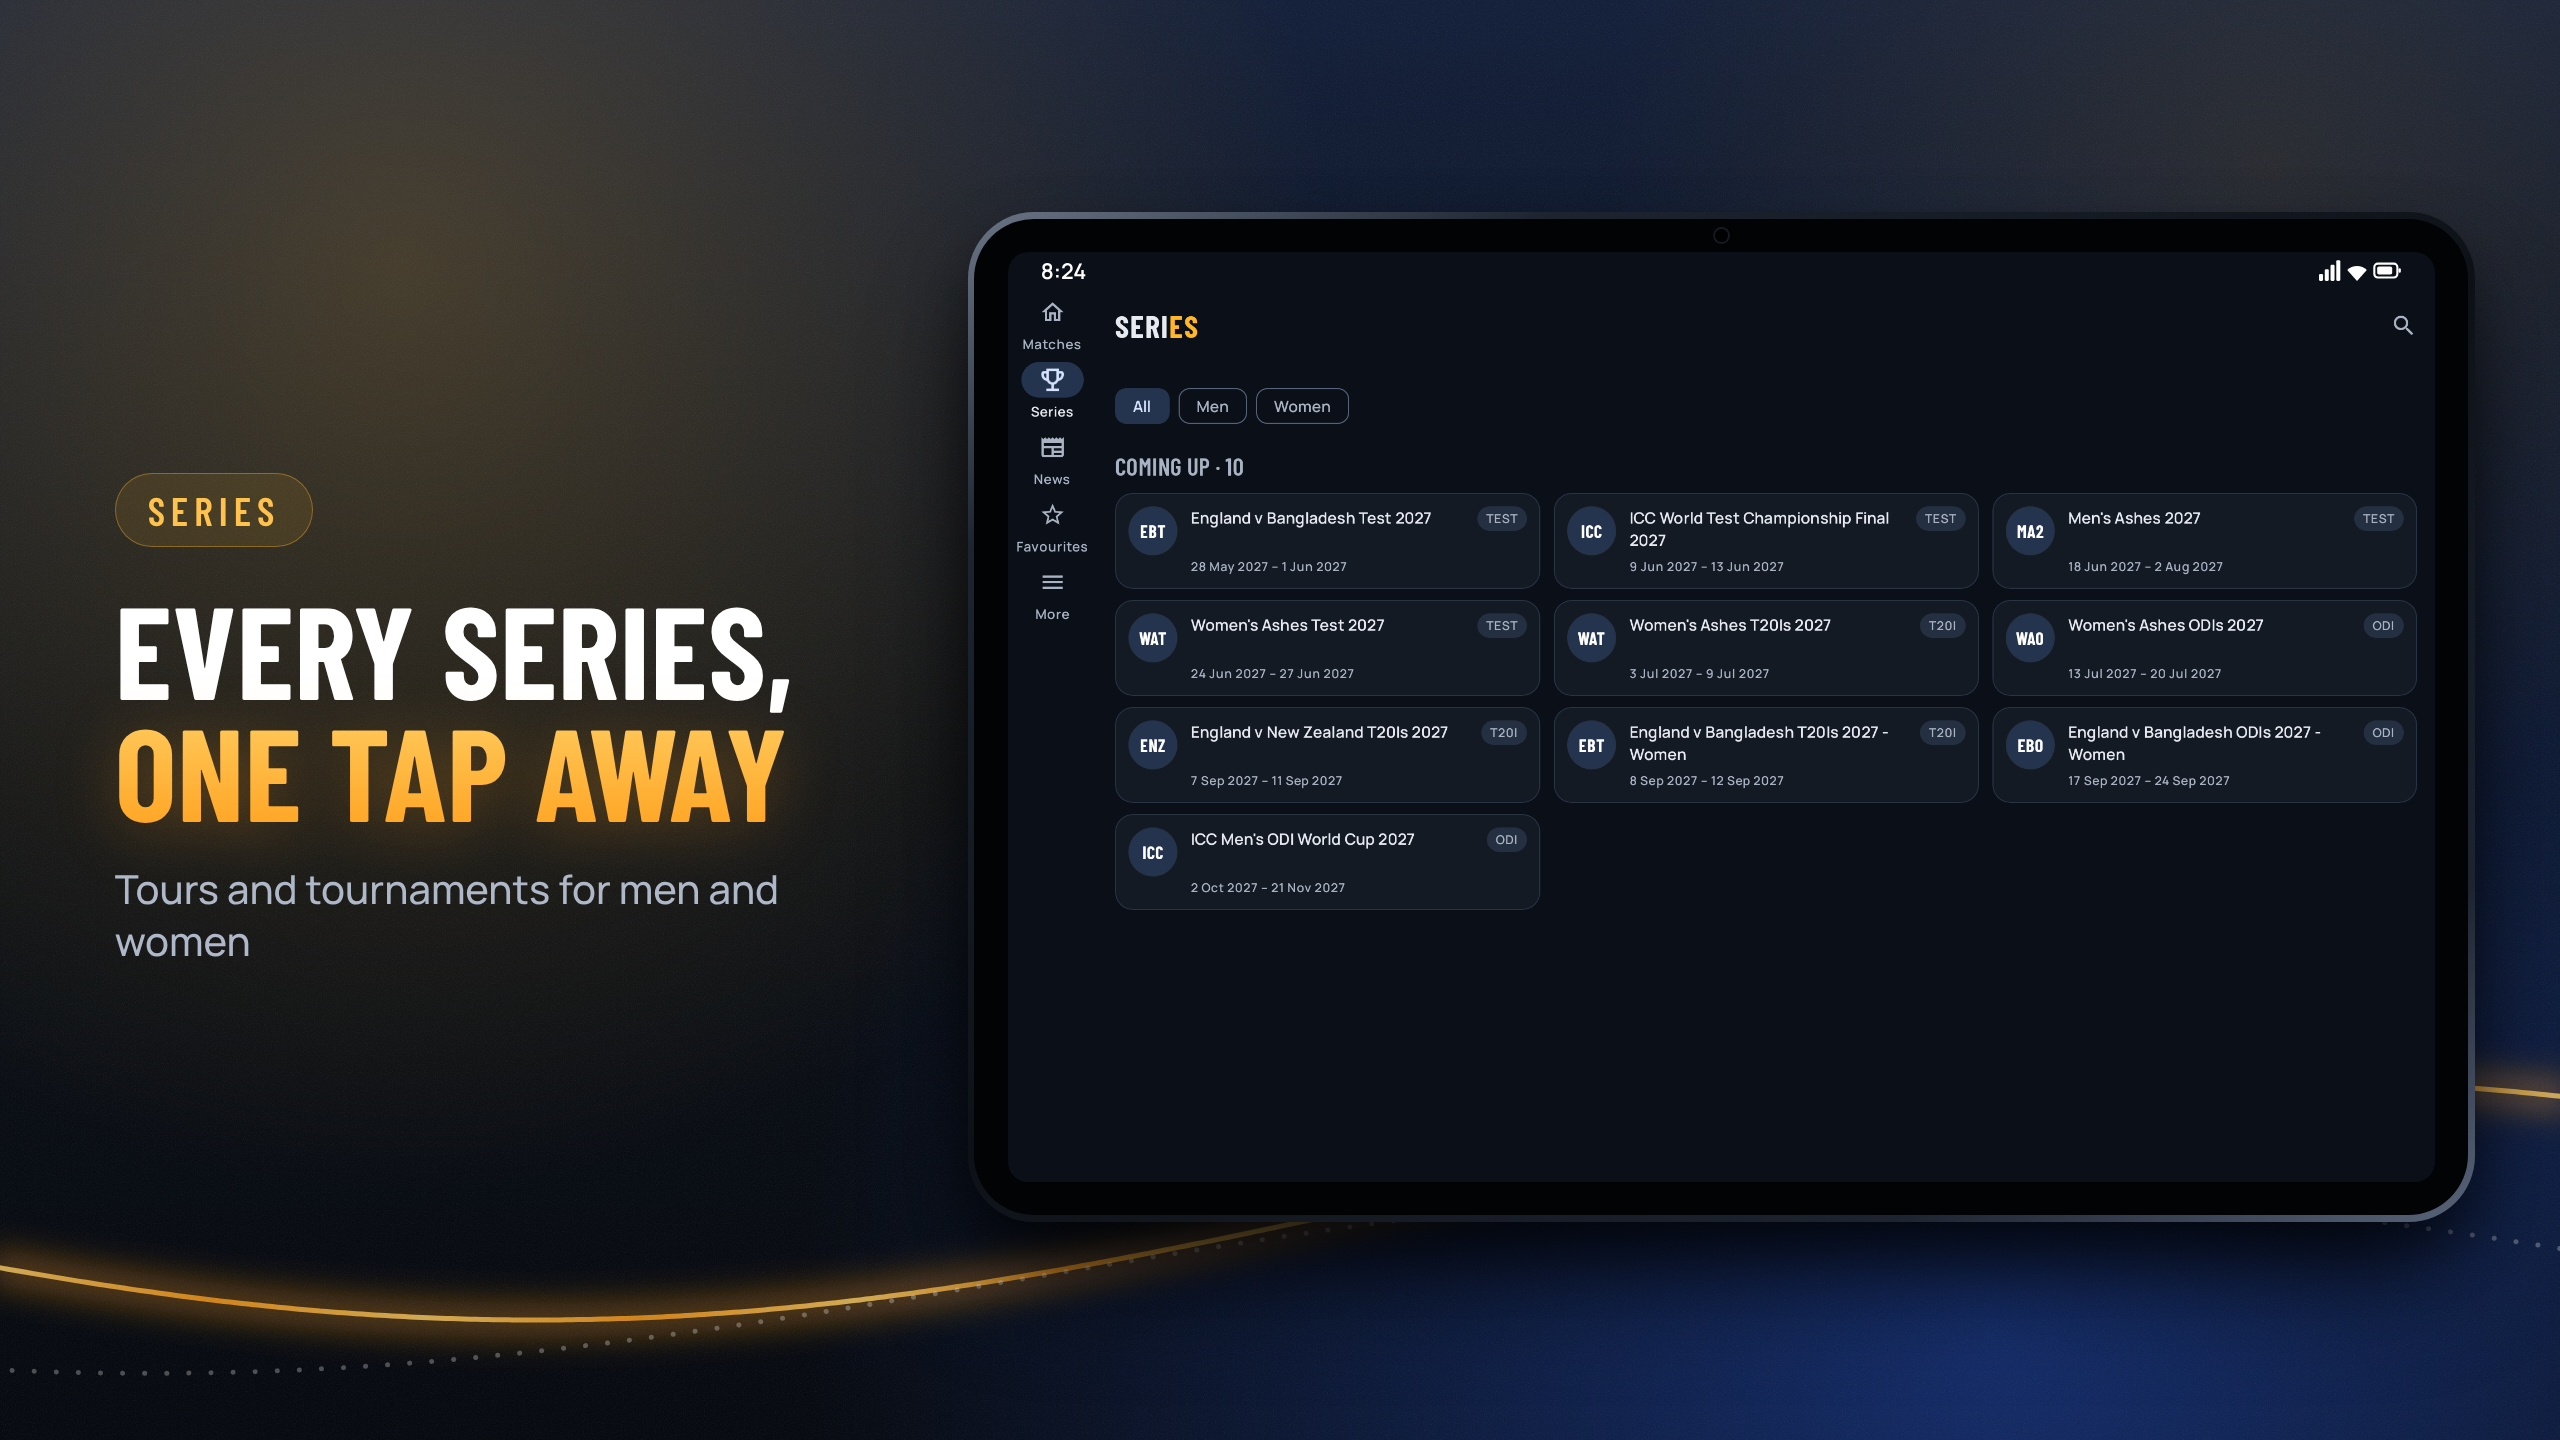
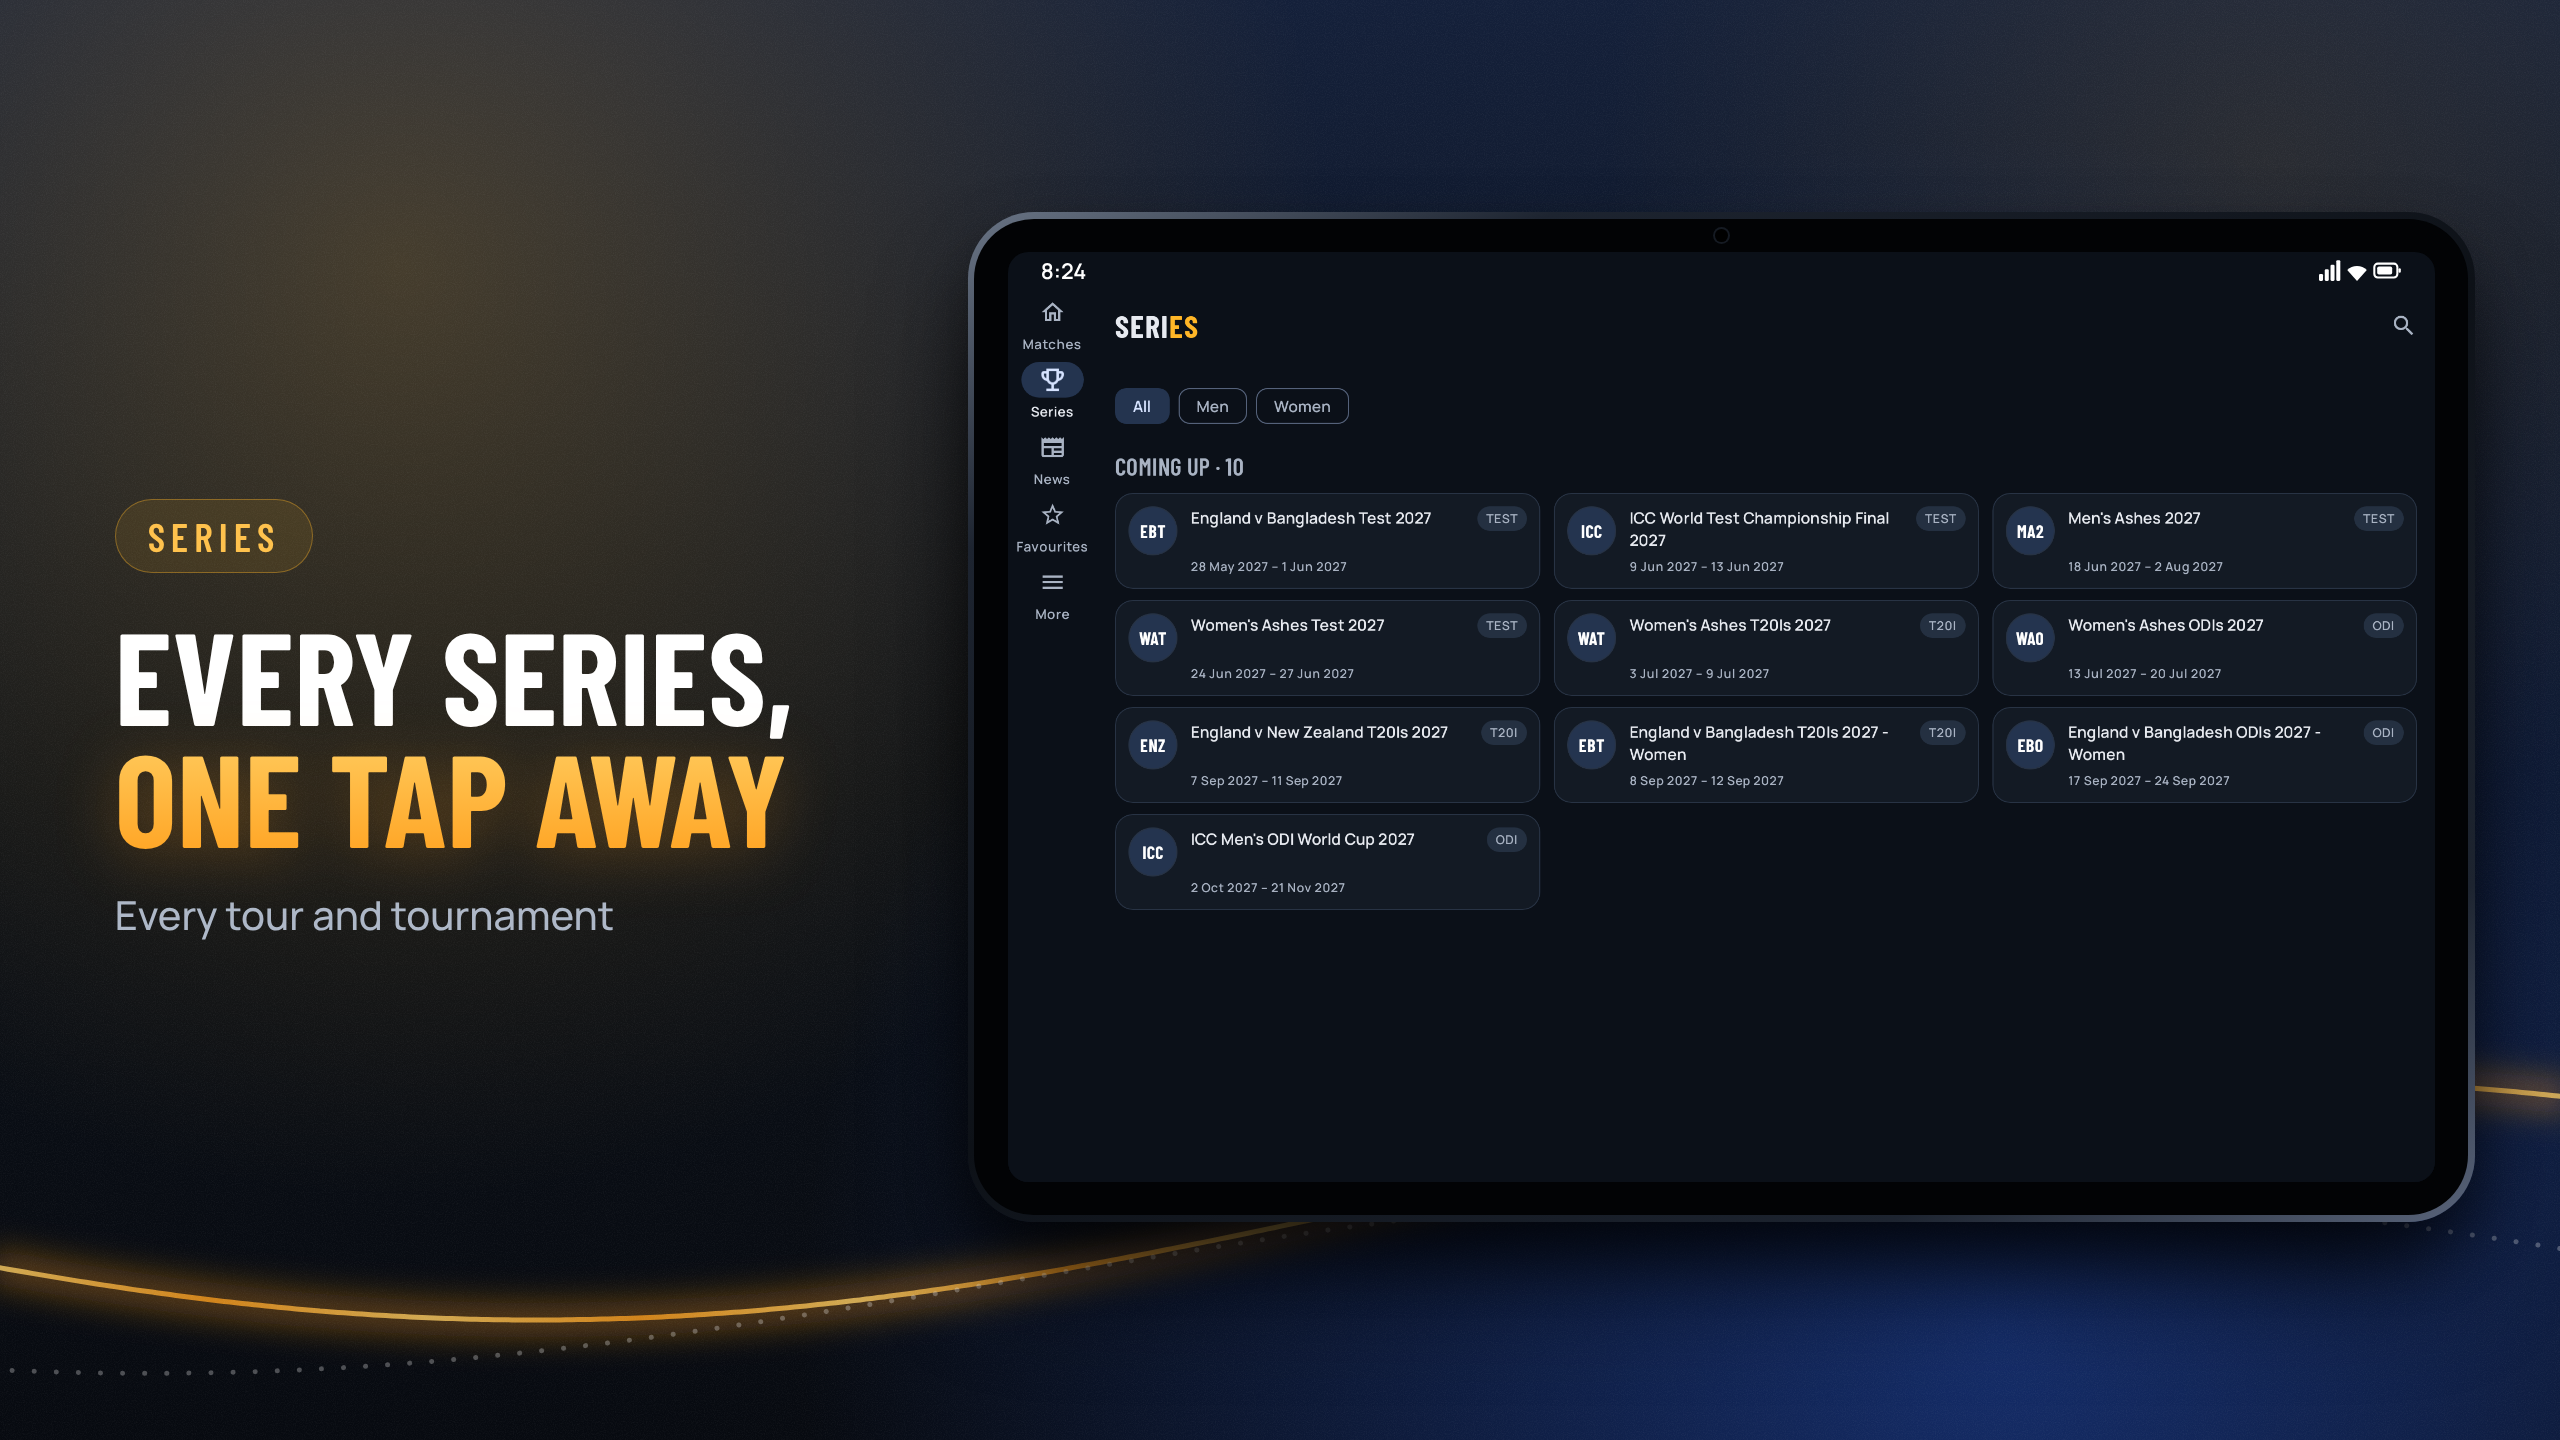
Tablet Series screenshot: shorter caption
Claude-Session: https://claude.ai/code/session_01JsbtM3r7Ekay7RngLRvyP4

Changed region(s): [[0.0312, 0.3438, 0.3125, 0.6875]]

diff --git a/docs/store/make_store_images.js b/docs/store/make_store_images.js
@@ -252,7 +252,7 @@ const tabletSlides = [
   { name: '01-live-scores', shot: '1-home', kicker: 'Live scores', live: true, lines: ['Every match.', 'Live.'], sub: 'Tests, ODIs and T20s, ball by ball' },
   { name: '02-match-centre', shot: '2-match', kicker: 'Match centre', lines: ['Follow the', 'chase'], sub: 'Target, run rate and who is at the crease' },
   { name: '03-scorecard', shot: '3-scorecard', kicker: 'Scorecard', lines: ['Every run,', 'every wicket'], sub: 'Full scorecards, innings by innings' },
-  { name: '04-series', shot: '4-series', kicker: 'Series', lines: ['Every series,', 'one tap away'], sub: 'Tours and tournaments for men and women' },
+  { name: '04-series', shot: '4-series', kicker: 'Series', lines: ['Every series,', 'one tap away'], sub: 'Every tour and tournament' },
 ];
 
 function tabletHtml(t, prefix, TW, TH) {
